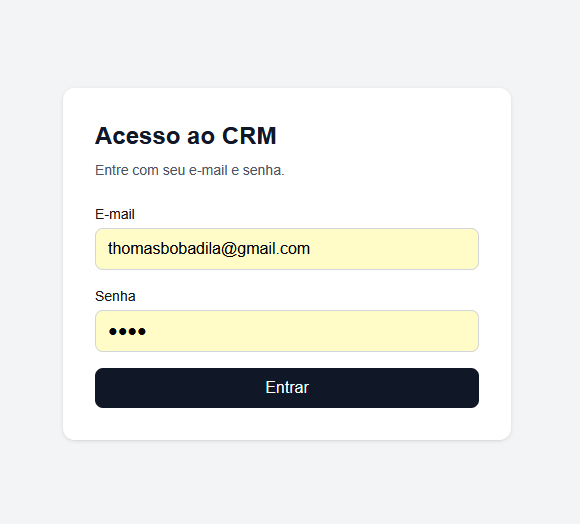
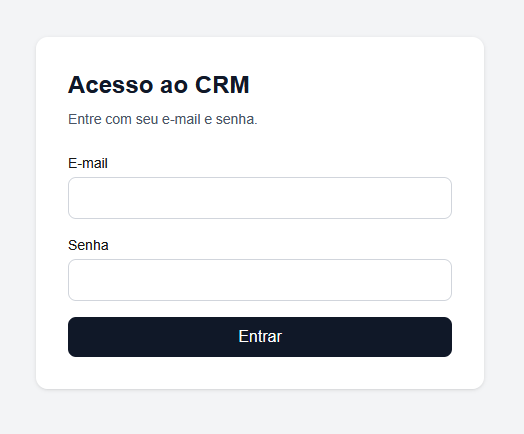
docs: add application screenshots

Changed region(s): [[0.1221, 0.1498, 0.8855, 0.8387]]

diff --git a/README.md b/README.md
@@ -277,3 +277,9 @@ Além de desenvolver uma aplicação funcional, este projeto tem como objetivo d
 **Thomas Bobadilla**
 
 Projeto desenvolvido para estudo, evolução técnica e composição de portfólio profissional.
+
+## 📫 Contato
+
+- E-mail: thomasbobadila@gmail.com
+- LinkedIn: https://www.linkedin.com/in/tmbobadilla/
+- GitHub: https://github.com/thomasbobadilla
